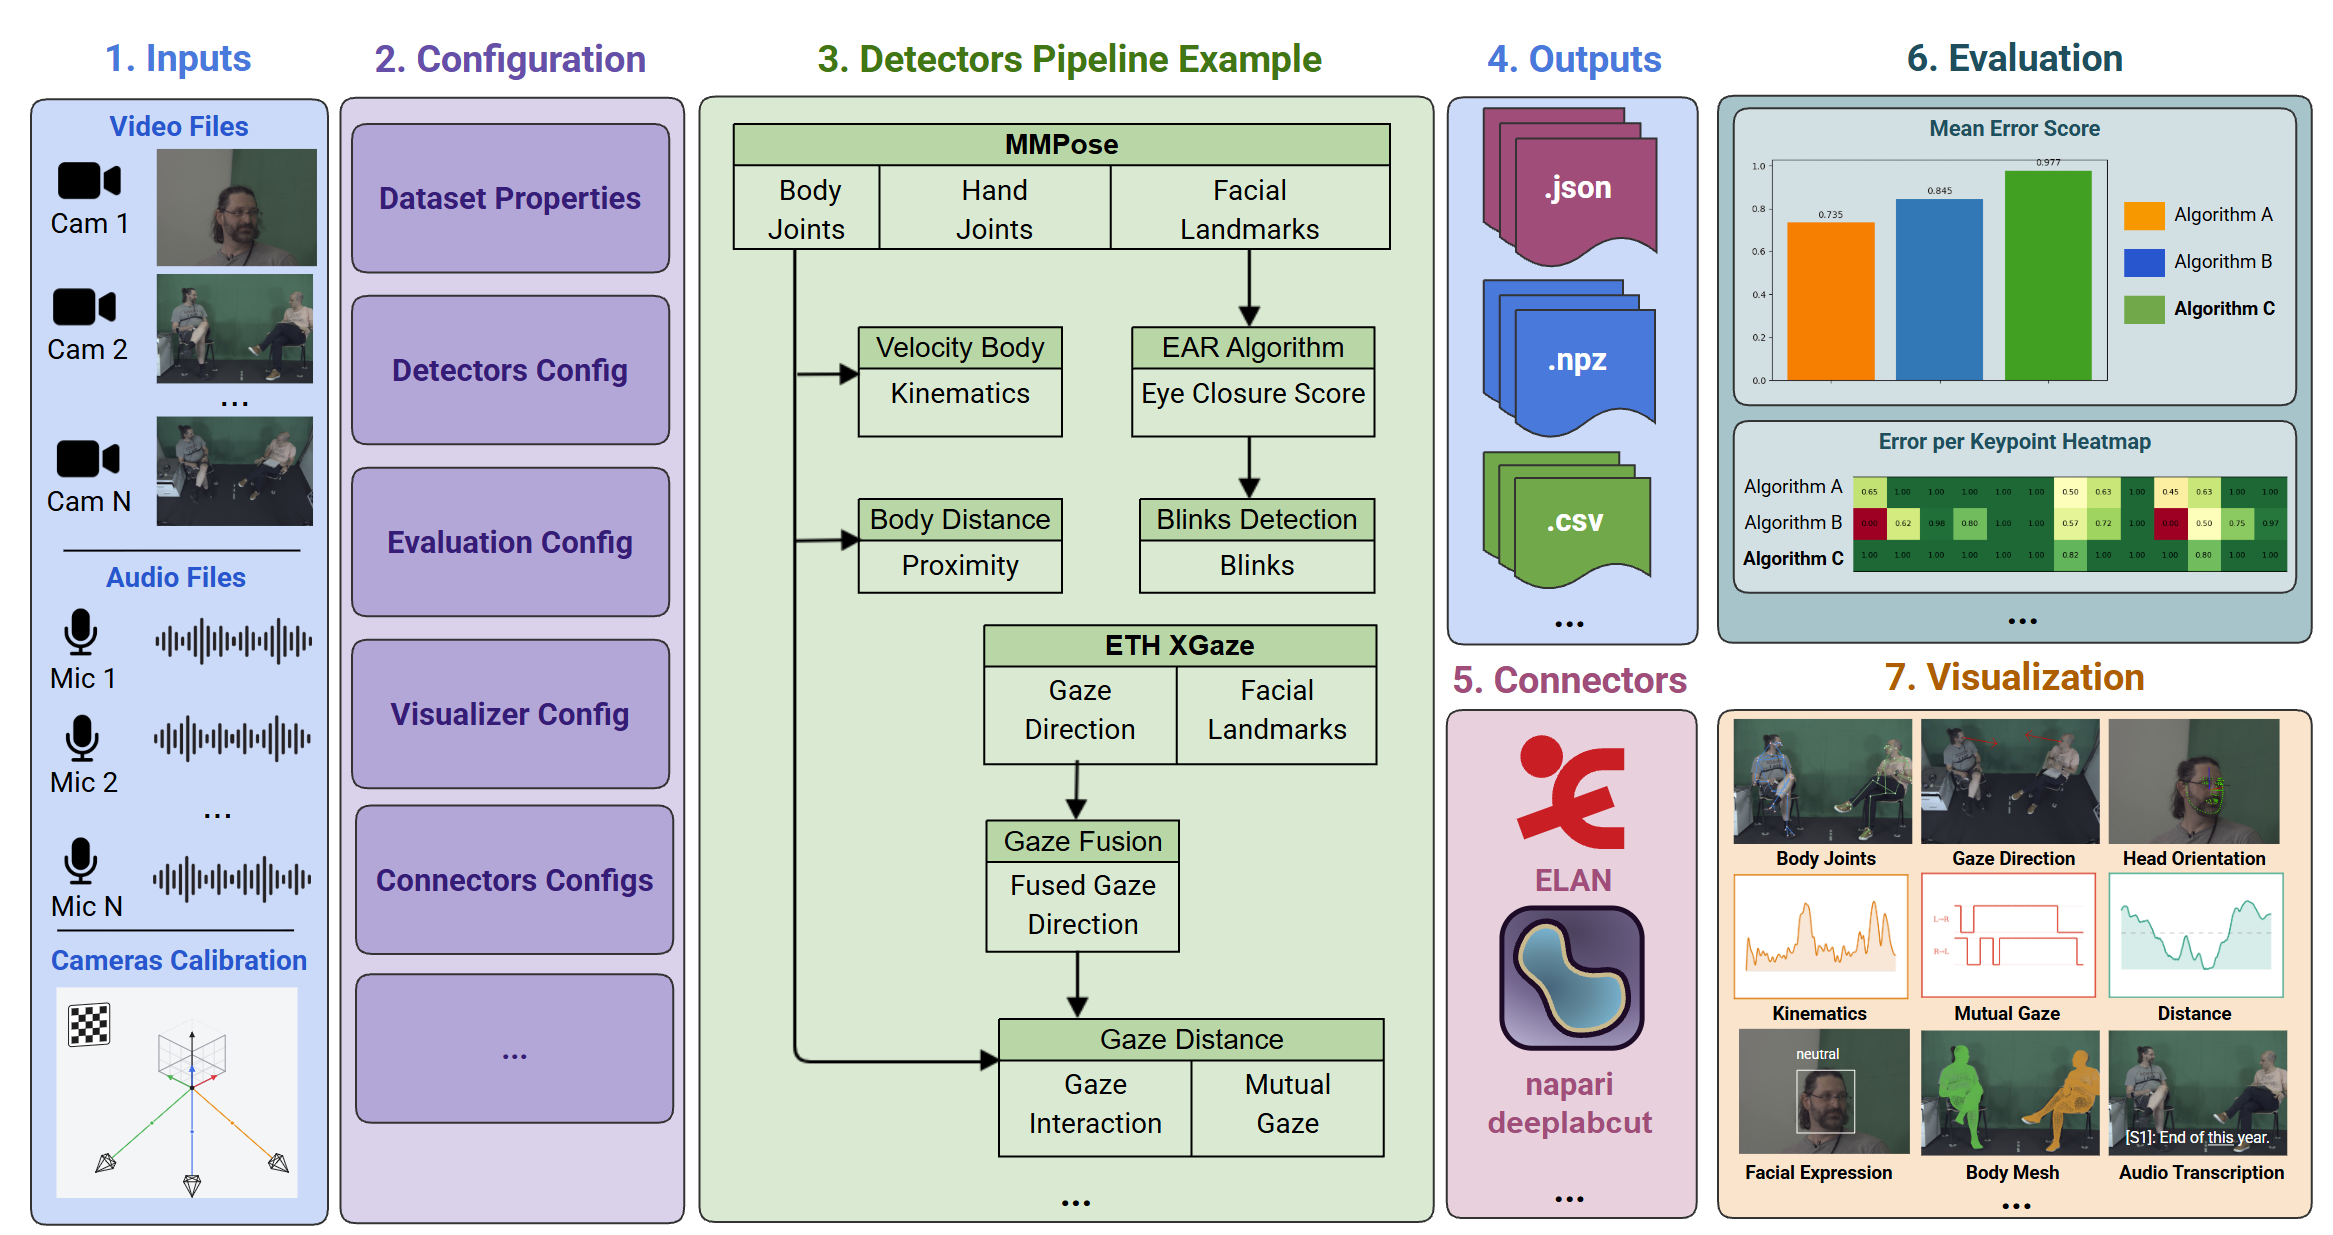
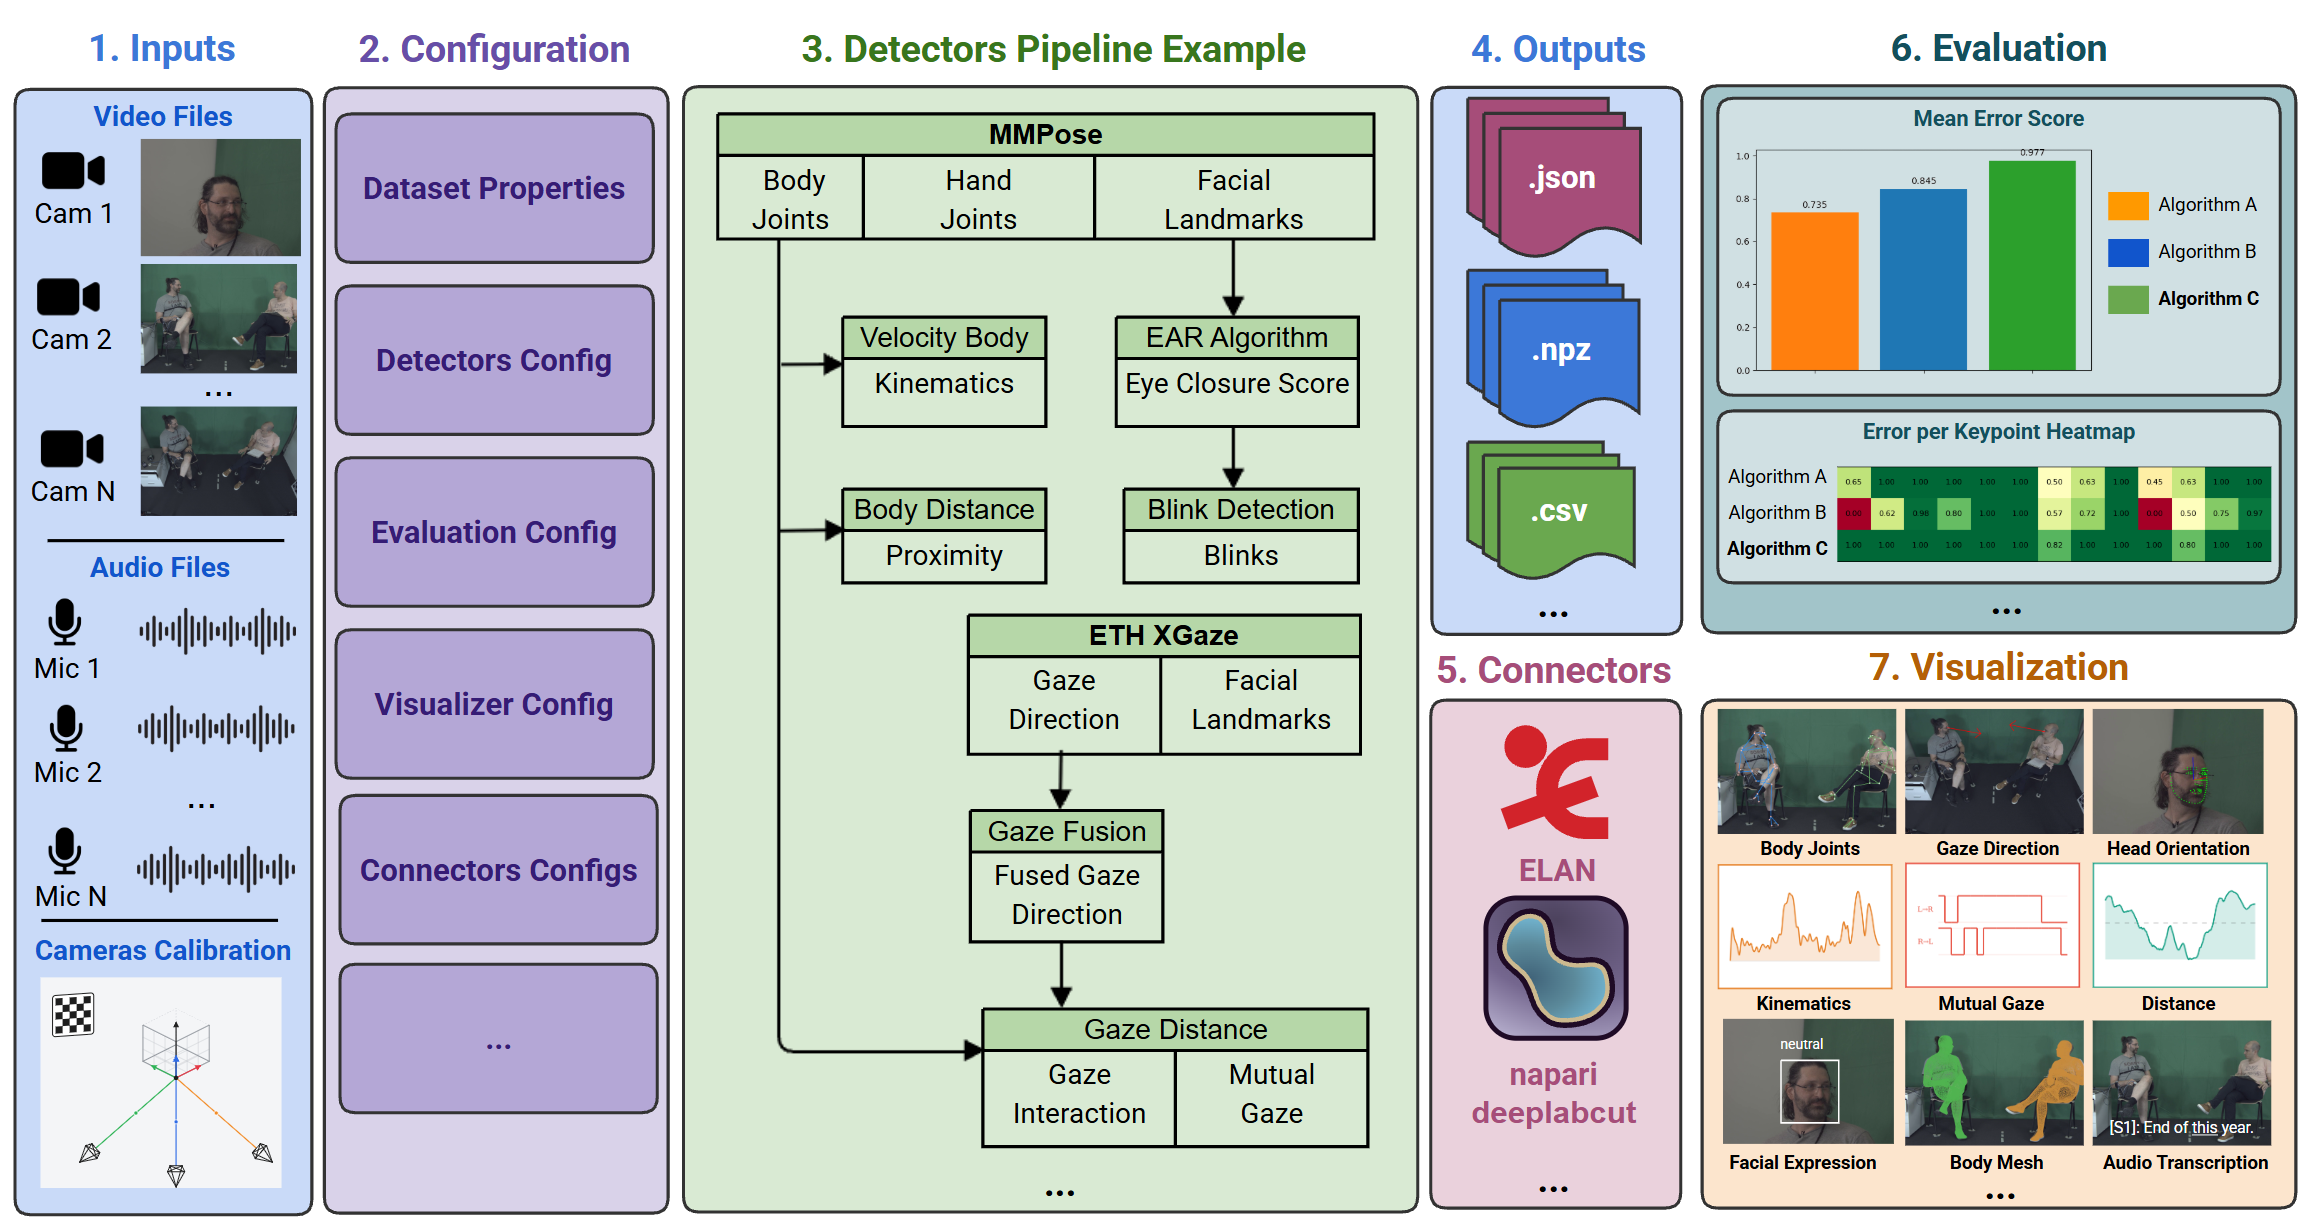
Paper changes

Changed region(s): [[0.0, 0.031, 0.9987, 0.9918], [0.6554, 0.9608, 0.6866, 0.9918], [0.593, 0.9608, 0.6242, 0.9918]]

diff --git a/paper/paper.md b/paper/paper.md
@@ -17,14 +17,14 @@ authors:
     affiliation: 1
   - name: Buket Naz Zeren
     affiliation: 1
-  - name: Sophie Bauer
-    affiliation: 1
+  - name: Sophie K. Bauer
+    affiliation: "1, 2"
   - name: Johannes Kopf-Beck
-    affiliation: 2
-  - name: Anton KG Marx
-    affiliation: 2
+    affiliation: "1, 2, 3, 4"
+  - name: Anton K.G. Marx
+    affiliation: "2, 3"
   - name: Anamaria Semm
-    affiliation: 2
+    affiliation: "2, 3"
   - name: Gökce Ergün
     affiliation: 1
   - name: Senya Polikovsky
@@ -33,9 +33,15 @@ affiliations:
  - name: Max Planck Institute for Intelligent Systems, Tübingen, Germany
    index: 1
    ror: 04fq9j139
- - name: Ludwig-Maximilians-Universität München, Munich, Germany
+ - name: Max Planck Institute of Psychiatry, Munich, Germany
    index: 2
+   ror: 04dq56617
+ - name: LMU Munich, Department of Psychology, Germany
+   index: 3
    ror: 05591te55
+ - name: German Center for Mental Health (DZPG), Partner Site Munich; Augsburg, Germany
+   index: 4
+   ror: 00tkfw097
 date: 10 July 2026
 bibliography: paper.bib
 ---
@@ -58,31 +64,32 @@ signals scalable, reproducible, and accessible for psychological research.
 
 # Statement of need
  
-Labelling and annotation of nonverbal behaviour signals from video recordings is one of the key methods
-of psychological research on interpersonal communication. Traditionally, this
-is done manually by trained student assistants or professional labellers
-rewatching videos multiple times. The process is slow, hard to scale, and
-inconsistent across annotators [@bakeman1997observing]. It also limits study dataset size,
-due to labelling budget and time constraints. These challenges compound the broader reproducibility
-concerns that have emerged in psychological research [@open2015estimating].
+Labelling and annotation of nonverbal behaviour signals from video
+recordings is one of the key methods of psychological research on
+interpersonal communication [@bakeman2011sequential]. Traditionally, this is
+done manually by trained student assistants or professional labellers
+rewatching videos multiple times. The process is slow, difficult to scale, and
+results are hard to make consistent across annotators [@vinciarelli2009social].
+This also limits study dataset size, due to labelling budget and time constraints.
 
 Computer vision and speech-processing models exist for each of the underlying
-signals (body pose, gaze, facial expression, speech transcription, and others),
+signals (body pose, gaze, speech transcription, and others),
 but they are distributed as separate research libraries with different software
 dependencies, input/output formats, and configuration conventions. Combining
 them into a working analysis workflow requires machine-learning and
-software-engineering expertise that most psychology researchers do not have.
+software-engineering expertise, which usually lies outside the scope of a
+psychology research project.
 
-Even when suitable models exist, choosing among them is difficult. Recording
-setups in psychological studies vary widely in camera placement, lighting,
-microphone setup, participant distance, appearance, interaction style, and
-data formats. Algorithm rankings on public benchmarks often do
-not transfer to a specific study's setup, so the best choice of model is one
-made empirically on the target data. Even within a given model, detectors
-are sensitive to hyperparameters that typically need tuning per setup.
-This requires an evaluation integrated with the detection pipeline, so
-researchers can compare candidate models and hyperparameter configurations
-on their own recordings before committing to one for their study.
+Furthermore, choosing among existing models to determine the most suitable
+one for a specific study can be difficult for most psychological
+researchers. Data recording setups vary widely in camera placement,
+lighting, participant distance, appearance, interaction style, and data
+formats. Algorithm rankings on public benchmarks often do not transfer to a
+specific study, so researchers must compare candidate models and
+hyperparameter configurations on their own data before committing to one
+for their study [@d2022underspecification]. As of yet, no available algorithm
+framework offers such an integrated performance evaluation pipeline while
+allowing the combination of different models to capture multimodal data streams.
 
 `NICE Toolbox` is a Python framework for psychology researchers that unifies
 data processing and model inference across a large set of machine-learning
@@ -105,13 +112,21 @@ Automated open-source signal measurement tools usually cover only one specific c
 pixel change as a proxy for body movement and has been widely used to study
 interpersonal synchrony in psychotherapy. `OpenFace` [@Baltrusaitis2018] and
 `Py-Feat` [@cheong2023py] are open-source libraries for facial analysis used in
-psychological research. `CrisperWhisper` [@wagner2024] and `WhisperX` [@whisperx]
-are considered the standard for audio transcription.
+psychological research. `CrisperWhisper` [@wagner2024] and `WhisperX` [@whisperx] are widely used for audio transcription. Combining these tools into a multimodal
+analysis pipeline is done by the researcher, who must adapt output formats,
+coordinate systems, and sampling rates using custom post-processing scripts.
+
+One effort to centralise these tools in a single hub is `EnvisionBox`
+[@envisionbox]. It is a community-driven platform that curates open code
+modules, tutorials, and datasets for multimodal analysis in
+social-interaction research. Rather than providing a single unified software, it
+functions as a shared storage for code examples demonstrating model inference and
+data analysis.
 
 Commercial platforms such as `FaceReader` [@lewinski2014automated] and
 `iMotions` [@imotions] provide integrated multimodal analysis with polished
 user interfaces, but their proprietary licensing, closed algorithms, and
-cost limit reproducibility and accessibility for academic research. Their
+costs limit reproducibility and accessibility for academic research. Their
 coverage is also bounded by what the vendor supports: signals or models not
 offered by the platform cannot be added by the user.
 
@@ -121,7 +136,7 @@ drive it through its graphical front-end, the `NOVA` annotation tool
 [@Heimerl2019], to explore content, inspect recordings, and refine
 annotations.
 
-Compared to these alternatives, `NICE Toolbox` focuses on automated
+Compared to `DISCOVER` and other alternatives, `NICE Toolbox` focuses on automated
 large-scale dataset processing without human intervention or refinement.
 Each user-created configuration defines a computational pipeline in which
 detector outputs from different modalities can feed into one another. The
@@ -143,19 +158,17 @@ multimodal analysis without writing code, (2) to maintain consistent data
 structures (components) across different detectors, and (3) to reuse
 established open-source models and libraries rather than reimplementing them
 (including MMPose [@mmpose2020], SAM 3D Body [@sam3dbody], ETH-XGaze [@Zhang2020ETHXGaze],
-`Py-Feat` [@cheong2023py], `CrisperWhisper` [@wagner2024], `WhisperX` [@whisperx],
-and others).
+`Py-Feat` [@cheong2023py], and others).
 
-![`NICE Toolbox` architecture. Multi-camera video, audio, and calibration files (1) are combined with user-supplied TOML configuration (2) that describes the dataset, detectors, evaluation, visualisation, and connectors. A detector pipeline (3) chains primary models (e.g., MMPose, ETH-XGaze) with second-level detectors that compute kinematics, proximity, blinks, and mutual gaze. Results are saved in tabular formats (4), exported to external annotation tools (5), evaluated across algorithms (6), and visualised (7).\label{fig:software-design}](images/software-design.png){ width=100% }
+![`NICE Toolbox` experiment example. Multi-camera video with optional audio and calibration files (1) are combined with user-supplied TOML configuration (2) that describes the dataset, requested detectors, evaluation, visualisation, and connectors. A detector pipeline (3) connects primary models (e.g., MMPose for body pose estimation, ETH-XGaze for gaze direction) with second-level detectors (kinematics from body velocity, proximity from inter-body distance, blinks from eye-closure ratios, and mutual gaze from fused gaze directions across cameras). Results are saved per subject in tabular formats (4), exported to external annotation tools such as `ELAN` (5), and evaluated across candidate algorithms on the user's own recordings (6), with metrics such as mean error score per algorithm and per-keypoint error heatmap. Interactive 2D/3D visualisation (7) shows final results for inspection and diagnosis.\label{fig:software-design}](images/software-design.png){ width=100% }
 
-The toolbox is organised into modules (see \autoref{fig:software-design}) with separated
+The toolbox is organised into modules 
+(see the example experiment at \autoref{fig:software-design}) with separate
 responsibilities: **detectors** runs the computer vision and audio models on
 recordings, **evaluation** computes configurable metrics based on the
 user-specific dataset, **visualizer** provides the interactive `rerun` [@RerunSDK] 3D visualizer,
 and **connectors** handles import and export to third-party tools such as
 `ELAN` and `napari-deeplabcut` [@napari_deeplabcut] for ground-truth annotation.
-
-![An example layout of the interactive `NICE Toolbox` visualiser, showing detector results from a dyadic interaction: triangulated body joints, body mesh, gaze direction, head orientation, and synchronised kinematics time series. \label{fig:visualizer}](images/interactive-visualization.png){ width=100% }
 
 Users control the software through TOML configuration files that describe
 algorithm parameters, evaluation metrics, visualizer layouts (see \autoref{fig:visualizer}), and dataset
@@ -165,9 +178,11 @@ keep configuration concise and flexible, `NICE Toolbox` supports
 variables and named wildcards inside the configuration system.
 Detector algorithms additionally support template inheritance, so
 users can define a parameter set once and derive variants that override only
-the fields that differ — for example, running the same pose estimator with
+the fields that differ; for example, running the same pose estimator with
 different confidence thresholds, or comparing two backbones that share the
 same camera setup and I/O components.
+
+![An example layout of the interactive `NICE Toolbox` rerun visualizer, showing detector results from a dyadic interaction: triangulated body joints, body mesh, gaze direction, head orientation, and synchronised kinematics time series. \label{fig:visualizer}](images/interactive-visualization.png){ width=100% }
 
 Detectors can use the output of other detectors as their input, allowing the
 construction of a directed computational graph. The order of execution is
@@ -189,8 +204,8 @@ detector's outputs back from disk in the unified data format.
 
 `NICE Toolbox` has been used to extract behavioural cues for
 psychological research at the Max Planck Institute for Intelligent Systems
-and by external collaborators. In work led by Ludwig-Maximilians-Universität
-Munich, the toolbox was used to quantify movement synchrony from
+and by other collaborators. In work led by LMU Munich, the toolbox was
+used to quantify movement synchrony from
 pose-estimation-based kinematic displacement measures across 32 videos of
 16 parent–child dyads undergoing psychotherapy, distinguishing genuine
 interactive coupling from coincidental covariation and comparing free-play
